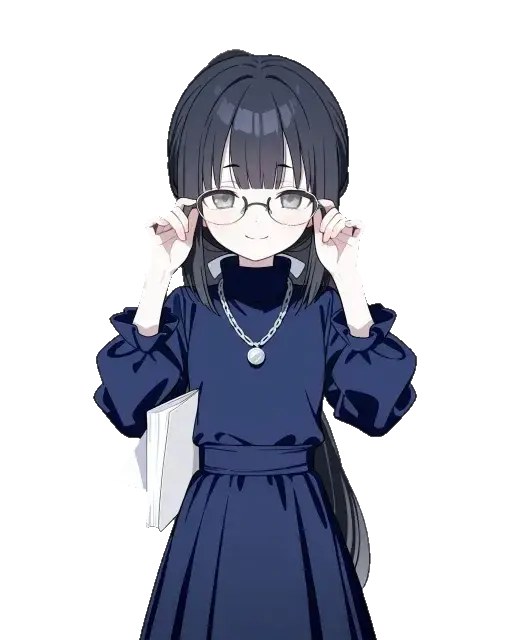
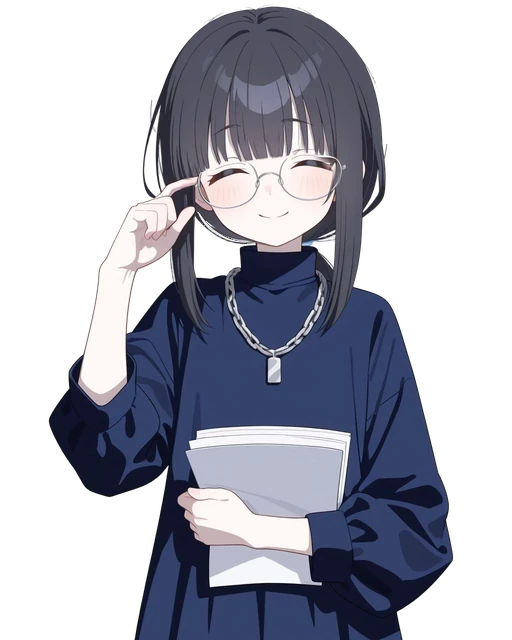
ファリナ（候補 4・seed 19206）を基本の絵にして、差分 7 枚（喜・怒・哀・楽・ほんの少し笑う・慌て・冷たい目）と顔の窓の四角を作る。手の指は 5 本
Claude-Session: https://claude.ai/code/session_011Kp4AbAXdzXbnvYnjXXoLh

diff --git a/src/data/u41_face_box.js b/src/data/u41_face_box.js
@@ -34,7 +34,7 @@
     dorothea: [0.3047, 0.1406, 0.4062, 0.325],
     elnea: [0.28, 0.062, 0.42, 0.336],
     erna: [0.332, 0.0406, 0.336, 0.2688],
-    farina: [0.3047, 0.1969, 0.3969, 0.3175],
+    farina: [0.3457, 0.1672, 0.332, 0.2656],
     felix: [0.332, 0.0206, 0.336, 0.2688],
     ferida: [0.328, 0.0294, 0.364, 0.2912],
     filie: [0.3281, 0.1297, 0.3188, 0.255],

diff --git a/docs/art/redesign/farina/var_farina.py b/docs/art/redesign/farina/var_farina.py
@@ -1,0 +1,20 @@
+# ファリナ（候補 4・seed 19206）の差分：基本の絵（白い地・1024×1280）から全身の img2img、表情のタグだけ差し替え
+import base64, io, json, os, sys, urllib.request
+from PIL import Image
+V = {"joy": "(gentle smile:1.4), closed mouth, soft eyes", "anger": "(angry:1.6), (glaring:1.6), (v-shaped eyebrows:1.6), (frown:1.5), (furrowed brow:1.4), cold eyes",
+     "sorrow": "(sad:1.7), (teary eyes:1.3), (worried eyebrows:1.7), (frown:1.4), (looking down:1.4), (downcast eyes:1.3)", "fun": "(smile:1.5), (both eyes closed:1.7), (^_^:1.2), happy",
+     "faint_smile": "(rare gentle smile:1.4), (soft eyes:1.3), closed mouth", "panic": "(flustered:1.5), (panicking:1.4), (sweatdrop:1.4), (wide-eyed:1.3), (open mouth:1.2)",
+     "cold": "(cold eyes:1.6), (narrowed eyes:1.7), (half-closed eyes:1.4), (contempt:1.3), (looking down on viewer:1.3), (expressionless:1.3)"}
+base = json.load(open("farina_19206.json", encoding="utf-8"))
+src = base64.b64encode(open("farina_19206.png", "rb").read()).decode()
+den = float(os.environ.get("DEN", 0.5))
+for m in (sys.argv[1].split(",") if len(sys.argv) > 1 else V):
+    b = dict(base); b.pop("override_settings_restore_afterwards", None)
+    b["prompt"] = base["prompt"].replace("serious expression", V[m])
+    b["negative_prompt"] = base["negative_prompt"] + (", (one eye closed:1.6), (wink:1.6)" if m == "fun" else "") + ", (anger vein:1.6)"
+    b.update({"init_images": [src], "denoising_strength": den, "resize_mode": 0, "seed": int(os.environ.get("SEED", 19206))})
+    r = json.loads(urllib.request.urlopen(urllib.request.Request("http://127.0.0.1:7860/sdapi/v1/img2img", json.dumps(b).encode(), {"Content-Type": "application/json"}), timeout=1200).read())
+    Image.open(io.BytesIO(base64.b64decode(r["images"][0]))).convert("RGB").save(f"v_{m}_{den}{os.environ.get('SEED','')}.png")
+    b.pop("init_images"); b["init_image"] = "farina_19206.png（基本の絵・白い地）"
+    json.dump(b, open(f"v_{m}_{den}{os.environ.get('SEED','')}.json", "w", encoding="utf-8"), ensure_ascii=False, indent=1)
+    print(m, flush=True)
